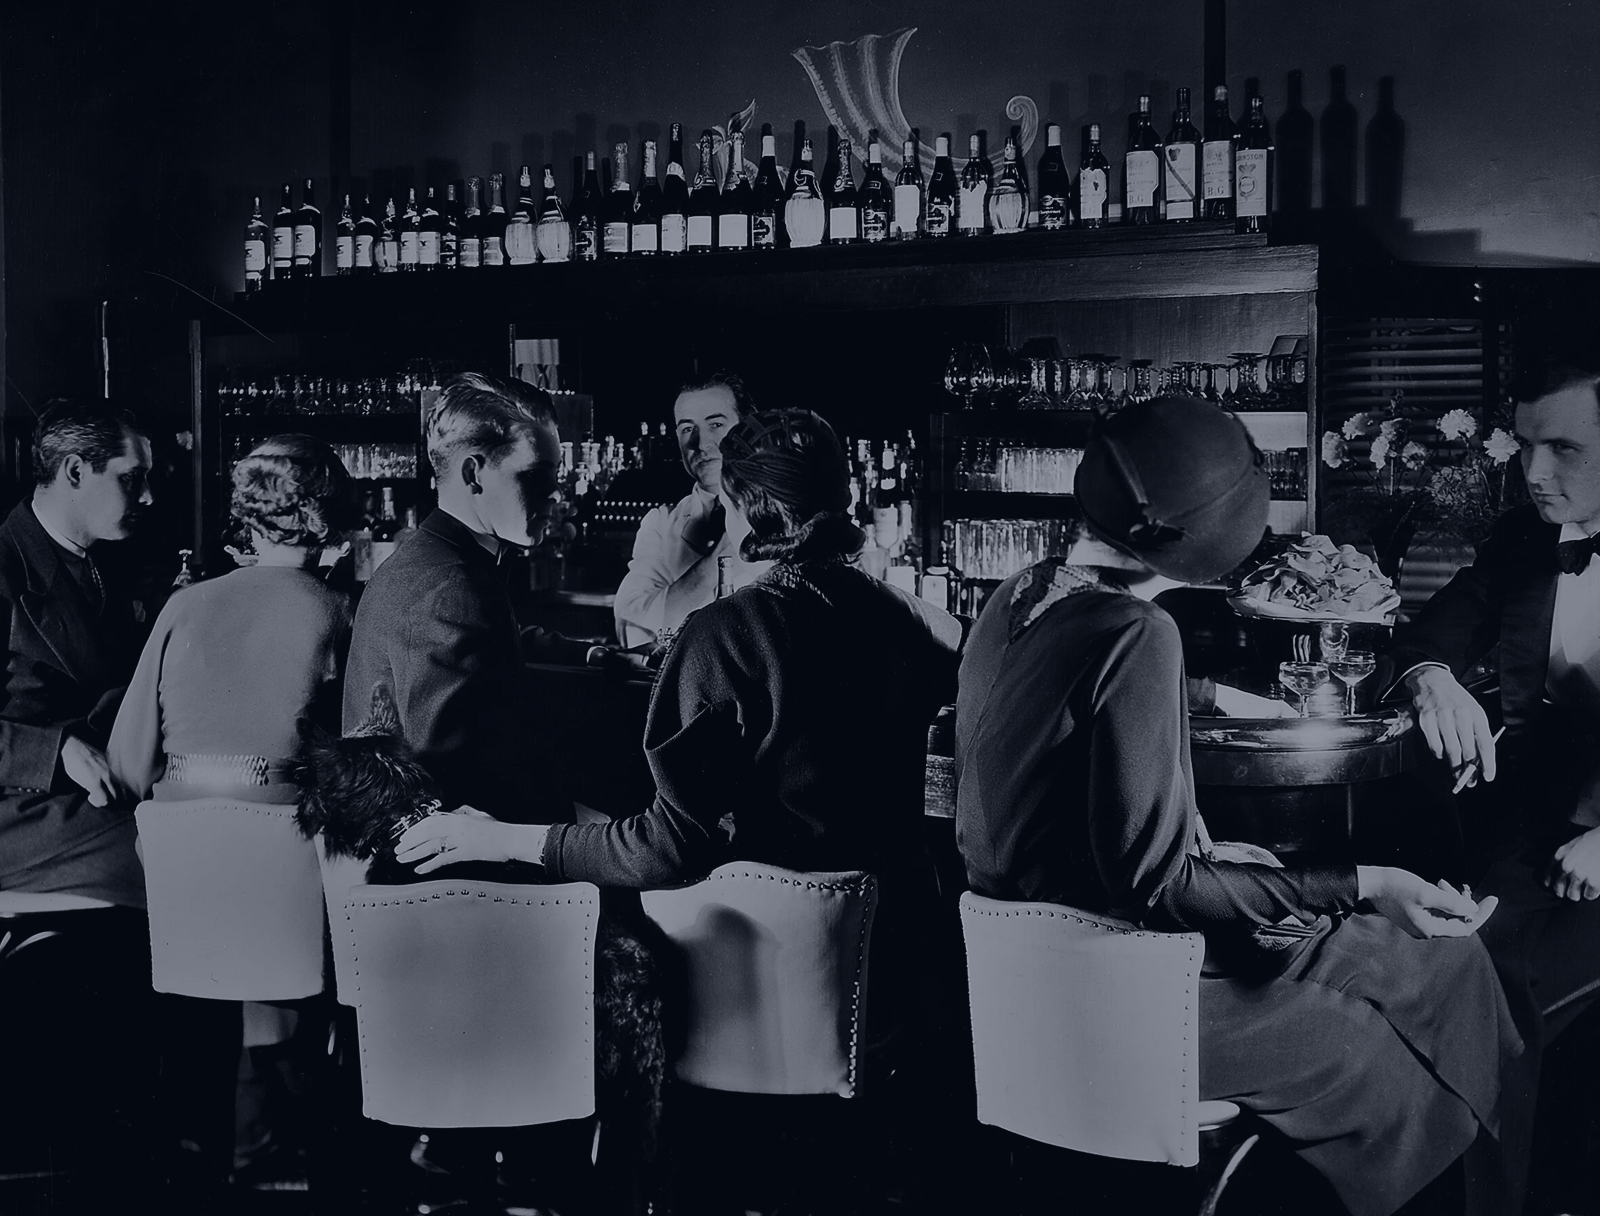
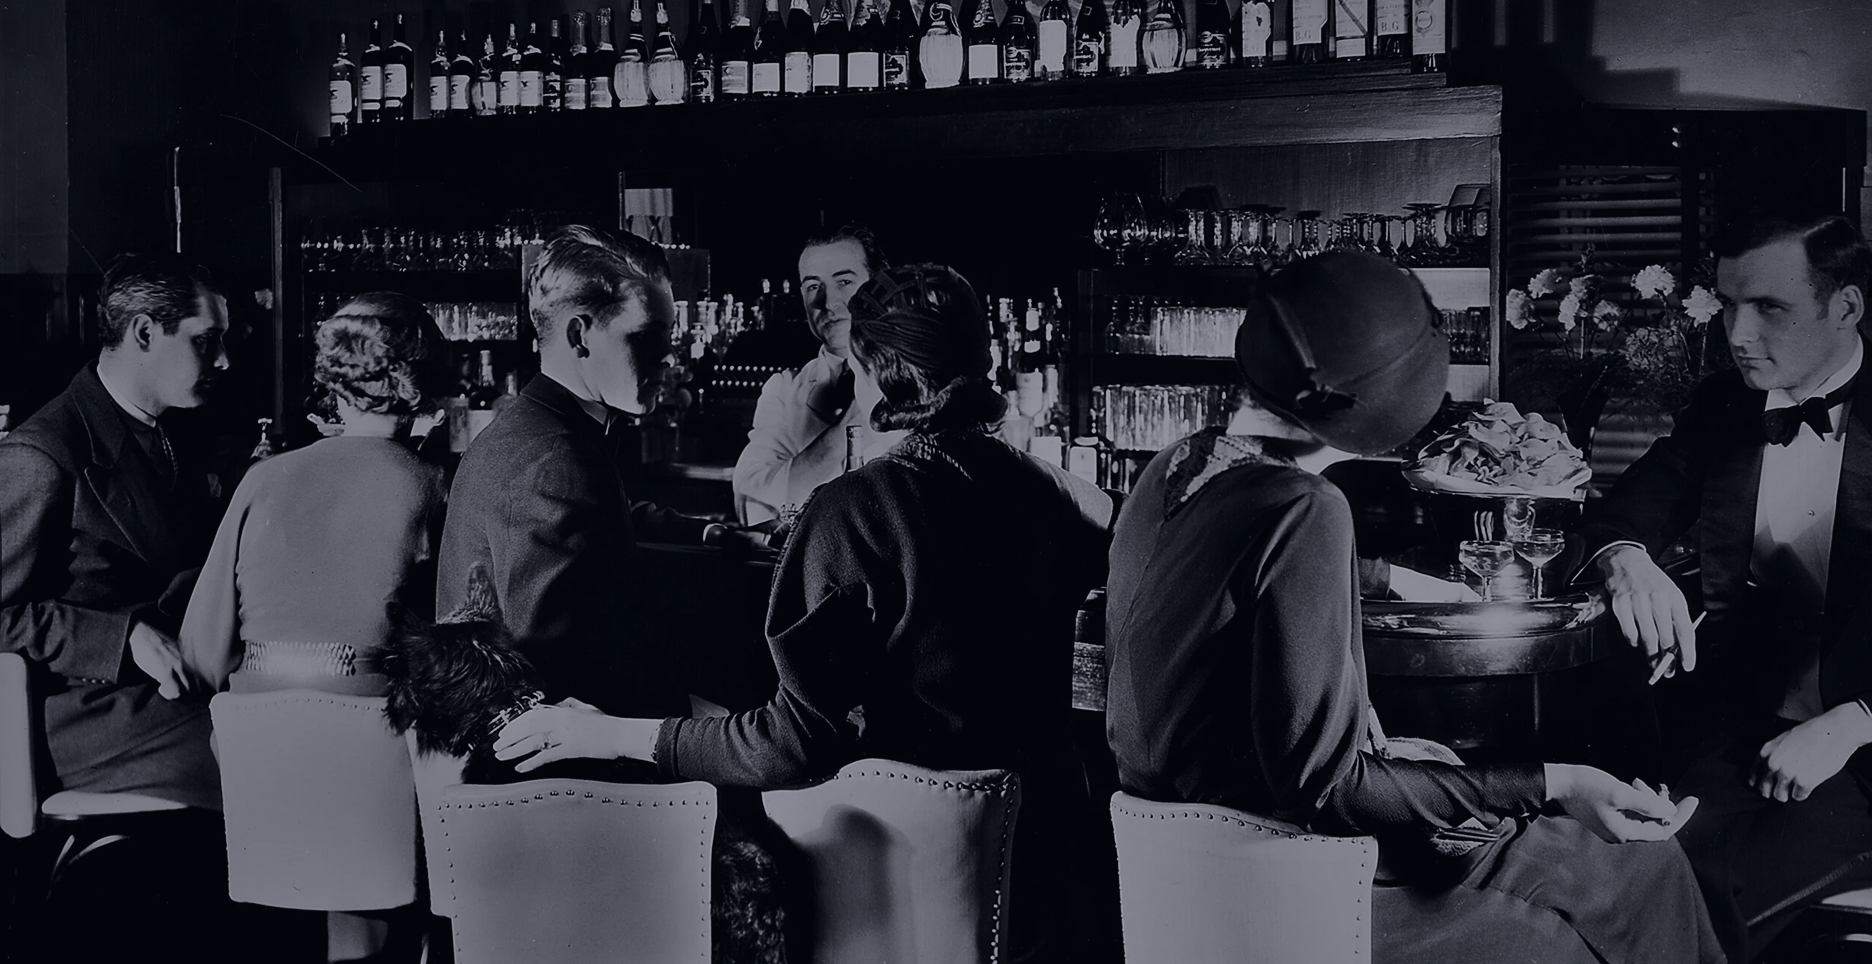
new

diff --git a/cocktail_proj_2/index.html b/cocktail_proj_2/index.html
@@ -9,8 +9,22 @@
 <body>
 
     <section class="classic_cocktails_section">
-        <img class="background" src="../img/BarBack.png" alt="background">
+
         <h1>CLASSIC COCKTAILS</h1>
+        <article class="prohibition_section__information_module">
+            <p class="prohibition_text__information">
+              Бурные двадцатые... Рост промышленности, расцвет джаза, экономический взлет и столь же стремительное
+              падение.
+            </p>
+            <p class="prohibition_text__information">
+              Сухой закон. Созданный с благими намерениями, он привел к росту преступности и бутлегерства, повсеместному
+              производству низкокачественного алкоголя и открытию speakeasy баров.
+            </p>
+            <p class="prohibition_text__information">
+              Спиртное было настолько неприятным на вкус, что бармену приходилось демонстрировать находчивость и маскировать
+              вкус низкопробного алкоголя. Именно так появились многие знакомые нам коктейли.
+            </p>
+        </article>
         <div class="cocktails_ring" style="--quantity: 6">
             <div class="cocktail_circle_img" style="--position: 1">
                 <img src="../img/classic_cocktails/So.png" alt="cocktail">
@@ -42,11 +56,11 @@
                 <H2>Дайкири</H2>
                 <div class="history">
                     <img class="cocktail_img" src="/img/classic_cocktails/cocktail_M/da_M.png" alt="">
-                    <p>Хотя импорт алкоголя и был под запретом, черный рынок процветал. Мелассу, которая используется для
-                        производства, ввозить было проще и дешевле, чем готовый продукт.</p>
-                    <p>О выдержке говорить не приходилось: ром получался откровенно гадкий. Одним из способов все исправить был
-                        Дайкири.</p>
-                    <p>А уже в середине века Хемингуэй наслаждался коктейлем в барах Кубы.</p>
+                    Хотя импорт алкоголя и был под запретом, черный рынок процветал. Мелассу, которая используется для
+                        производства, ввозить было проще и дешевле, чем готовый продукт.
+                    О выдержке говорить не приходилось: ром получался откровенно гадкий. Одним из способов все исправить был
+                        Дайкири.
+                    А уже в середине века Хемингуэй наслаждался коктейлем в барах Кубы.
                 </div>
                 <div class="reciep">
                     Ингредиенты

diff --git a/cocktail_proj_2/style.css b/cocktail_proj_2/style.css
@@ -9,39 +9,62 @@
 }
 body{
 
+    overflow-x: hidden;
+    color: rgb(223, 255, 255);
+
 
 
 }
 
-.h1{
+h1{
+
+    font-weight: bold;
+    text-align: center;
+    text-transform: uppercase;
+    font-size: clamp(1.5rem, 5vw, 3rem);
+    margin: 3rem;
+
 
 
 }
 
 .classic_cocktails_section{
+    display: flex;
+    flex-direction: column;
+    background: url('../img/barBack.png');
+    background-position: center center;
+    background-repeat: no-repeat;
     background-color: rgba(11, 22, 42, 1);
-    width: 100%;
+    position: relative;
     height: 100vh;
-
-
-
-
+    width: 100vw;
 }
-.background{
+.prohibition_section__information_module{
+    display: flex;
+    text-align: center;
+}
+
+.prohibition_text__information{
+    margin: 2rem;
+    font-size: 2vw
+}
+.classic_cocktails_about{
+    width: inherit;
+    position: relative;
+}
+/* .background{
     position: absolute;
+    align-items: center;
+    justify-content: center;
+    min-width: 320px;
     transform: translate(-50%, -50%);
-    left: 50%;
-    top: 50%;
+    inset: 50% 0 0 50%;
     z-index: 1;
-}
+} */
 
 .cocktails_ring{
-    position: absolute;
-    z-index: 2;
-    transform: translate(-50%, -50%);
-    width: 100%;
-    left: 50%;
-    top: 50%;
+
+
     display: flex;
     align-items: flex-end;
 
@@ -53,13 +76,14 @@ body{
 }
 
 .cocktail_circle_img{
-    margin: 2em;
+    margin: 0 2rem 2rem 2rem;
+    width: 100%;
+
 }
 
 
 .cocktail_circle_img img{
-    width: 100%;
-    height: 100%;
+    display: block;
     object-fit: cover;
 }
 
@@ -70,6 +94,7 @@ body{
 .cocktail_reciep_and_history{
 
     display: flex;
+    position: relative;
     align-items: center;
     flex-direction: column;
     gap: 20px;
@@ -78,12 +103,16 @@ body{
 
 .history,
 .reciep{
-    width: 1600px;
+    font-size: 2em;
+    text-align: center;
+    justify-content: center;
+    align-items: center;
 }
 
 .history{
     background: linear-gradient(to bottom,rgba(28, 54, 47, 1), rgba(69, 163, 144, 1));
-    font-size: 4rem;
+    display: flex;
+
 }
 
 .reciep{
@@ -92,5 +121,5 @@ body{
 }
 
 @media (width >= 1600px){
-    
+
 }

diff --git a/landix.html b/landix.html
@@ -46,7 +46,7 @@
                 Коктейль Манхэттен занял свое место в меню не только из-за своего названия. Гармоничное сочетание терпкого
                 виски со сладостью красного вермута захватывало внимание гурманов.История: Мохито родом из Кубы...
               </p>
-            </div>
+            </div>w
             <div class="cocktail_block recipe">
               <div class="flipper">
                 <svg class="svg" xml:space="preserve" xmlns="http://www.w3.org/2000/svg" width="100%" height="100%" viewBox="0 0 1024 1024"><path fill="currentColor" fill-rule="evenodd" d="M512 64c247.4 0 448 200.6 448 448S759.4 960 512 960S64 759.4 64 512S264.6 64 512 64m0 76c-205.4 0-372 166.6-372 372s166.6 372 372 372s372-166.6 372-372s-166.6-372-372-372m128.013 198.826c.023.007.042.018.083.059l45.02 45.019c.04.04.05.06.058.083a.118.118 0 0 1 0 .07c-.007.022-.018.041-.059.082L557.254 512l127.861 127.862a.268.268 0 0 1 .05.06l.009.023a.118.118 0 0 1 0 .07c-.007.022-.018.041-.059.082l-45.019 45.02c-.04.04-.06.05-.083.058a.118.118 0 0 1-.07 0c-.022-.007-.041-.018-.082-.059L512 557.254L384.14 685.115c-.042.041-.06.052-.084.059a.118.118 0 0 1-.07 0c-.022-.007-.041-.018-.082-.059l-45.02-45.019a.199.199 0 0 1-.058-.083a.118.118 0 0 1 0-.07c.007-.022.018-.041.059-.082L466.745 512l-127.86-127.86a.268.268 0 0 1-.05-.061l-.009-.023a.118.118 0 0 1 0-.07c.007-.022.018-.041.059-.082l45.019-45.02c.04-.04.06-.05.083-.058a.118.118 0 0 1 .07 0c.022.007.041.018.082.059L512 466.745l127.862-127.86c.04-.041.06-.052.083-.059a.118.118 0 0 1 .07 0Z"/></svg>
@@ -176,7 +176,7 @@
         <section class="movie_section__text">
         </section>
         <section class="movie_section__cocktails">
-          
+
           <div class="vesper">
             <img src="img/Bond.jpg" alt="007">
             <img src="img/vesper.PNG" alt="vesper">

diff --git a/styles.css b/styles.css
@@ -32,12 +32,9 @@ body {
 }
 .prohibition_section{
   display: grid;
-
-
   grid-template-columns: 1fr 1fr;
-
-
 }
+
 .prohibition_section__cocktail_module{
   display: grid;
   grid-row: 1;
